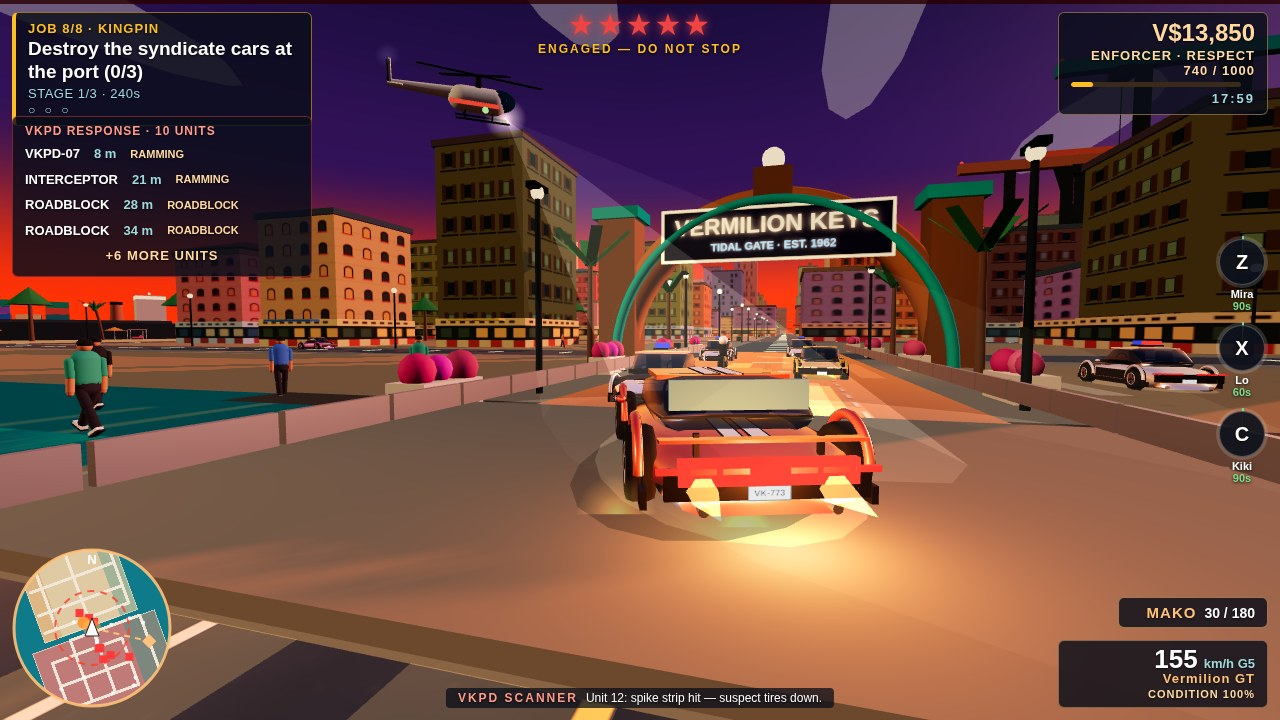
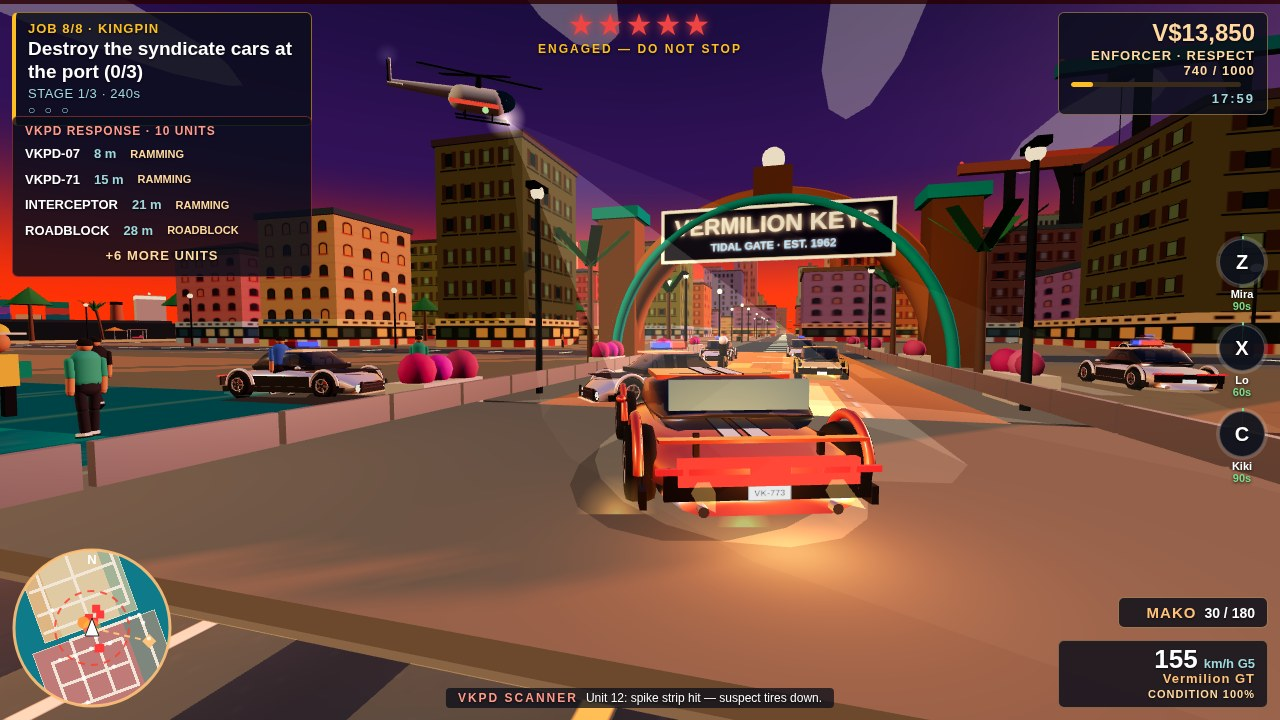
Update packaged cover to rev2 state
The packaged cover (screenshots/1-cover.jpg, ?shot=cover) was captured
Nov 23 03:19, before the rev1/rev2 pursuit revisions. Re-captured from
the current state and ported the minimum rev1 staging into the cover
branch (the cover is the causeway chase, not the Ocean Drive pursuit,
so the rev1/rev2 pursuit-branch changes never reached it):
- Exhaust toned down to the rev1 values (cones 0.10x0.45, opacity 0.4,
  point light 2.5, distance 4): the rear tires and contact shadow now
  read on the deck instead of washing out in glow.
- Oncoming interceptor VKPD-07 now MID-TURN across the hero's route
  (heading 0.70 rad, lightBarSteady): flank + roof light bar read
  side-on to the chase camera instead of a small head-on white sedan.
- Position (228, 2.5), coverPose camera, roadblock and heli staging
  unchanged. The fruit-stand fix lives in the pursuit branch and is
  verified in milestones/pursuit-milestone-1-rev2.jpg (no stand is in
  the causeway frame).
Verified by viewing the new capture: hero grounded, reduced glare,
mid-turn cruiser visible ahead-left of the hero.

diff --git a/game/src/shots.js b/game/src/shots.js
@@ -235,8 +235,15 @@ export function stageShot(kind, game) {
     chaser.unit = { name: 'INTERCEPTOR', state: 'pursue', kind: 'cruiser', blockTarget: null, ramCooldown: 0 };
     chaser.speed = 40;
     g.police.units.push(chaser);
-    const oncoming = new Car(g, 'sedan', 0xf2f2f2, 228, 2.5, Math.PI / 2, true);
-    oncoming.unit = { name: 'VKPD-07', state: 'pursue', kind: 'cruiser', blockTarget: null, ramCooldown: 0 };
+    // REV1 PORT (2026-11-23, Part B): the oncoming interceptor was
+    // head-on (heading PI/2) and read as a small white sedan. Same
+    // staging as the pursuit branch's VKPD-12 — MID-TURN across the
+    // hero's route, heading 0.70 rad (~50 deg across the road), so
+    // the chase camera sees its flank + roof light bar side-on.
+    // lightBarSteady keeps both pods bright in the frozen still.
+    // Position (228, 2.5) and the de-conflict keep-out are unchanged.
+    const oncoming = new Car(g, 'sedan', 0xf2f2f2, 228, 2.5, 0.70, true);
+    oncoming.unit = { name: 'VKPD-07', state: 'pursue', kind: 'cruiser', blockTarget: null, ramCooldown: 0, lightBarSteady: true };
     oncoming.speed = 25;
     oncoming.syncMesh();
     g.police.units.push(oncoming);
@@ -327,15 +334,20 @@ export function stageShot(kind, game) {
     // plus a warm point light, so the speed reads as fire as well as
     // motion. They ride on the car mesh, so they sit exactly at the
     // tailpipes whatever the final pose is.
+    // REV1 PORT (2026-11-23, Part B — cover to rev2 state): the
+    // pursuit branch toned the exhaust down (Codex: the glow washed
+    // out the rear tires). Same values here: shorter/smaller cones,
+    // opacity 0.9 -> 0.4, point light 8 -> 2.5 and distance 7 -> 4,
+    // so the rear tires and their contact shadow read on the deck.
     {
-      const flameMat = new THREE.MeshBasicMaterial({ color: 0xffb347, transparent: true, opacity: 0.9, blending: THREE.AdditiveBlending, depthWrite: false });
+      const flameMat = new THREE.MeshBasicMaterial({ color: 0xffb347, transparent: true, opacity: 0.4, blending: THREE.AdditiveBlending, depthWrite: false });
       for (const s of [-1, 1]) {
-        const flame = new THREE.Mesh(new THREE.ConeGeometry(0.16, 0.8, 6), flameMat);
+        const flame = new THREE.Mesh(new THREE.ConeGeometry(0.10, 0.45, 6), flameMat);
         flame.rotation.z = Math.PI / 2;
         flame.position.set(-2.45, 0.32, s * 0.55);
         runCar.mesh.add(flame);
       }
-      const glow = new THREE.PointLight(0xff8a2a, 8, 7, 1.6);
+      const glow = new THREE.PointLight(0xff8a2a, 2.5, 4, 1.6);
       glow.position.set(-2.6, 0.5, 0);
       runCar.mesh.add(glow);
     }
